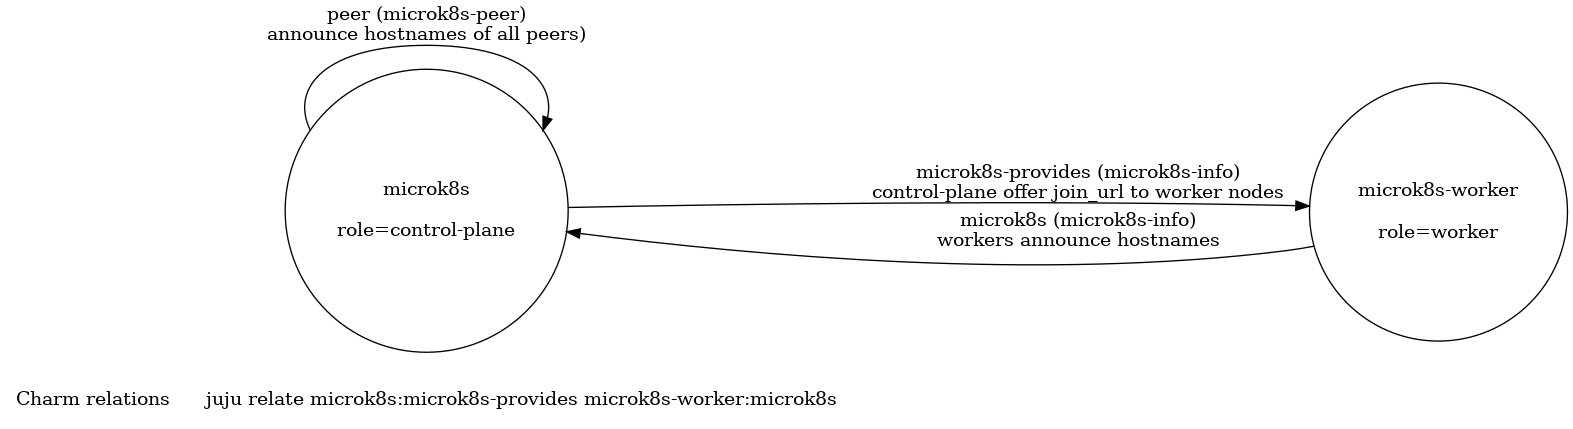
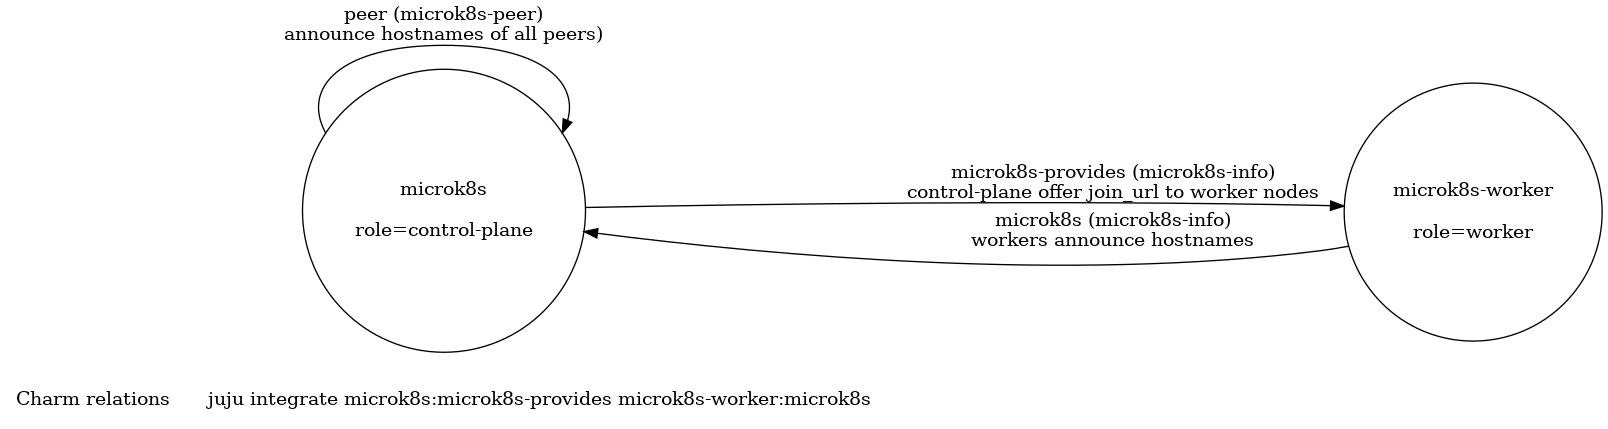
doc fixes

diff --git a/docs/fsm/graphs.py b/docs/fsm/graphs.py
@@ -101,7 +101,7 @@ r = graphviz.Digraph("microk8s relations", filename=DIR / "relations", format="p
 r.attr(rankdir="LR", size="20,30")
 
 r.attr("node", shape="none")
-r.node("", "Charm relations\tjuju relate microk8s:microk8s-provides microk8s-worker:microk8s")
+r.node("", "Charm relations\tjuju integrate microk8s:microk8s-provides microk8s-worker:microk8s")
 
 r.attr("node", shape="circle")
 r.node("cp", "microk8s\n\nrole=control-plane")

diff --git a/docs/architecture.md b/docs/architecture.md
@@ -8,7 +8,7 @@ juju deploy microk8s -n 3
 juju deploy microk8s microk8s-worker -n 3 --config role=worker
 
 # connect worker nodes to the control plane
-juju relate microk8s:microk8s-provides microk8s-worker:microk8s
+juju integrate microk8s:microk8s-provides microk8s-worker:microk8s
 ```
 
 The control plane nodes will automatically form a 3-node cluster. The worker nodes will stay in a waiting state until they are related to the control plane.
@@ -57,48 +57,29 @@ The source code is in the `src/` folder and the tests are in `tests/`. The code 
 
 ```yaml
 charm-microk8s:                     # Root directory
-- charmcraft.yaml                   # Charm charmcraft.yaml file
-- config.yaml                       # Defines charm configuration options
-- metadata.yaml                     # Charm metadata.yaml file
-- lxd-profile.yaml                  # LXD profile for the charm to work on LXD
-- tox.ini                           # CI and development tooling
-- docs:
-  - architecture.md                 # Document architecture decisions for the charm
-  - development.md                  # Getting started with developing the charm and running tests
-- lib:
-  - charms/grafana_agent/v0:
-    - cos_agent.py                  # Library for COS integration (updated by src/hack/update_libs.py)
+- docs: [...]                       # Charm development documentation
+- lib: [...]                        # Charmcraft libraries used by the charm (updated by src/hack/update_libs.py)
 - src:
   - deploy: [...]                   # Kubernetes manifests deployed by the charm
   - grafana_dashboards: [...]       # Grafana Dashboards for COS integration (updated by src/hack/update_dashboards.py)
-  - hack:
-    - update_alert_rules.py         # Update 'src/prometheus alert rules' from upstream sources
-    - update_dashboards.py          # Update 'src/grafana_dashboards' from upstream sources
-    - update_kube_state_metrics.py  # Update 'src/deploy/kube-state-metrics.yaml' from upstream sources
-    - update_libs.py                # Update charmcraft libraries under 'lib' from upstream sources
+  - hack: [...]                     # (hack) scripts to update vendored manifests from upstream sources
   - prometheus_alert_rules: [...]   # Prometheus Alert Rules for COS integration (updated by src/hack/update_alert_rules.py)
-  - charm_config.py                 # Channel-specific charm configuration
   - charm.py                        # Main charm source code and entry point
-  - containerd.py                   # Implement containerd functionality
-  - metrics.py                      # Implement observability related functionality
-  - microk8s.py                     # Implement microk8s functionality
-  - ops_helpers.py                  # Helpers and utilities not available yet in ops framework
-  - util.py                         # Implement helpers and utilities
 - tests:
   - unit:
     - conftest.py                   # Shared test fixtures
     - test_charm_control_plane.py   # Unit tests for src/charm.py (control plane specific)
     - test_charm_worker.py          # Unit tests for src/charm.py (worker specific)
     - test_charm.py                 # Unit tests for src/charm.py
-    - test_containerd.py            # Unit tests for src/containerd.py
-    - test_metrics.py               # Unit tests for src/metrics.py
-    - test_microk8s.py              # Unit tests for src/microk8s.py
-    - test_ops_helpers.py           # Unit tests for src/util.py
-    - test_util.py                  # Unit tests for src/util.py
+    - test_*.py                     # Unit tests for respective module in 'src'
   - integration:
     - conftest.py                   # Shared test fixtures for integration tests
     - config.py                     # Integration tests configuration file
-    - test_microk8s.py              # Integration tests (clustering)
-    - test_metallb_traefik.py       # Integration tests (MetalLB and Traefik LoadBalancer)
-    - test_observability.py         # Integration tests (grafana-agent)
+    - test_microk8s.py              # Integration tests (core charm functionality)
+    - test_*.py                     # Integration tests
+- charmcraft.yaml                   # Charm charmcraft.yaml file
+- config.yaml                       # Defines charm configuration options
+- metadata.yaml                     # Charm metadata.yaml file
+- lxd-profile.yaml                  # LXD profile for the charm to work on LXD
+- tox.ini                           # CI and development tooling
 ```

diff --git a/docs/observability.md b/docs/observability.md
@@ -13,7 +13,7 @@ juju deploy microk8s --channel edge --config hostpath_storage=true --constraints
 juju expose microk8s
 
 # Add MicroK8s as Kubernetes cloud to Juju
-juju run --unit microk8s/leader -- microk8s config | juju add-k8s k8s --controller "$(juju controller-config controller-name)"
+juju exec --unit microk8s/leader -- microk8s config | juju add-k8s k8s --controller "$(juju controller-config controller-name)"
 ```
 
 ### Deploy cos-lite
@@ -34,7 +34,7 @@ juju offer loki:logging loki
 juju offer grafana:grafana-dashboard grafana
 ```
 
-### Relate MicroK8s with COS
+### Integrate MicroK8s with COS
 
 ```bash
 # Switch to 'microk8s' model and configure cross-model relations
@@ -45,12 +45,12 @@ juju consume admin/observability.grafana grafana
 
 # Deploy grafana-agent and integrate grafana-agent with COS
 juju deploy grafana-agent --channel edge
-juju relate grafana-agent prometheus
-juju relate grafana-agent loki
-juju relate grafana-agent grafana
+juju integrate grafana-agent prometheus
+juju integrate grafana-agent loki
+juju integrate grafana-agent grafana
 
 # Integrate MicroK8s with grafana-agent
-juju relate microk8s grafana-agent
+juju integrate microk8s grafana-agent
 ```
 
 ### Access Grafana
@@ -58,18 +58,16 @@ juju relate microk8s grafana-agent
 Retrieve the admin password for Grafana using:
 
 ```bash
-juju run-action --wait -m observability grafana/0 get-admin-password
+juju run --wait -m observability grafana/0 get-admin-password
 ```
 
-Then, if LoadBalancer IP is not reachable from your host, use either `sshuttle` or `ssh`
+Then, if the LoadBalancer IP is not reachable from your host, create a local port forward:
 
 ```bash
-# Access Grafana at http://localhost:8000/observability-grafana/
 juju ssh -m microk8s microk8s/leader -L 8000:10.43.5.10:80
-
-# Access Grafana at http://10.43.5.10/observability-grafana/
-sshuttle -r $microk8snodeip 10.43.5.10/32
 ```
+
+Then, point your browser to http://localhost:8000/observability-grafana/ to access Grafana. For debugging purposes, you can also access Prometheus at http://localhost:8000/observability-prometheus-0/
 
 ## (Dev) Getting Started
 
@@ -89,9 +87,10 @@ The charm also automatically deploys [`kube-state-metrics`](https://github.com/k
 
 To update upstream manifests, use the scripts in `src/hack`.
 
-1. Check the latest upstream version of each component (and ensure that it is compatible with the MicroK8s version we deploy)
-2. Update the `VERSION` in each `update_*.py` script as needed.
-3. Update everything with the following:
+1. (Optional) Update component versions
+   - Check https://github.com/prometheus-operator/kube-prometheus and find a release that is compatible with the MicroK8s version we deploy, then update `VERSION` in `src/hack/update_alert_rules.py` and `src/hack/update_dashboards.py`.
+   - Check https://github.com/kubernetes/kube-state-metrics and find a release that is compatible with the MicroK8s version we deploy, then update `VERSION` in `src/hack/update_kube_state_metrics.py`
+2. Update vendored manifests from upstream sources
 
 ```bash
 python src/hack/update_alert_rules.py
